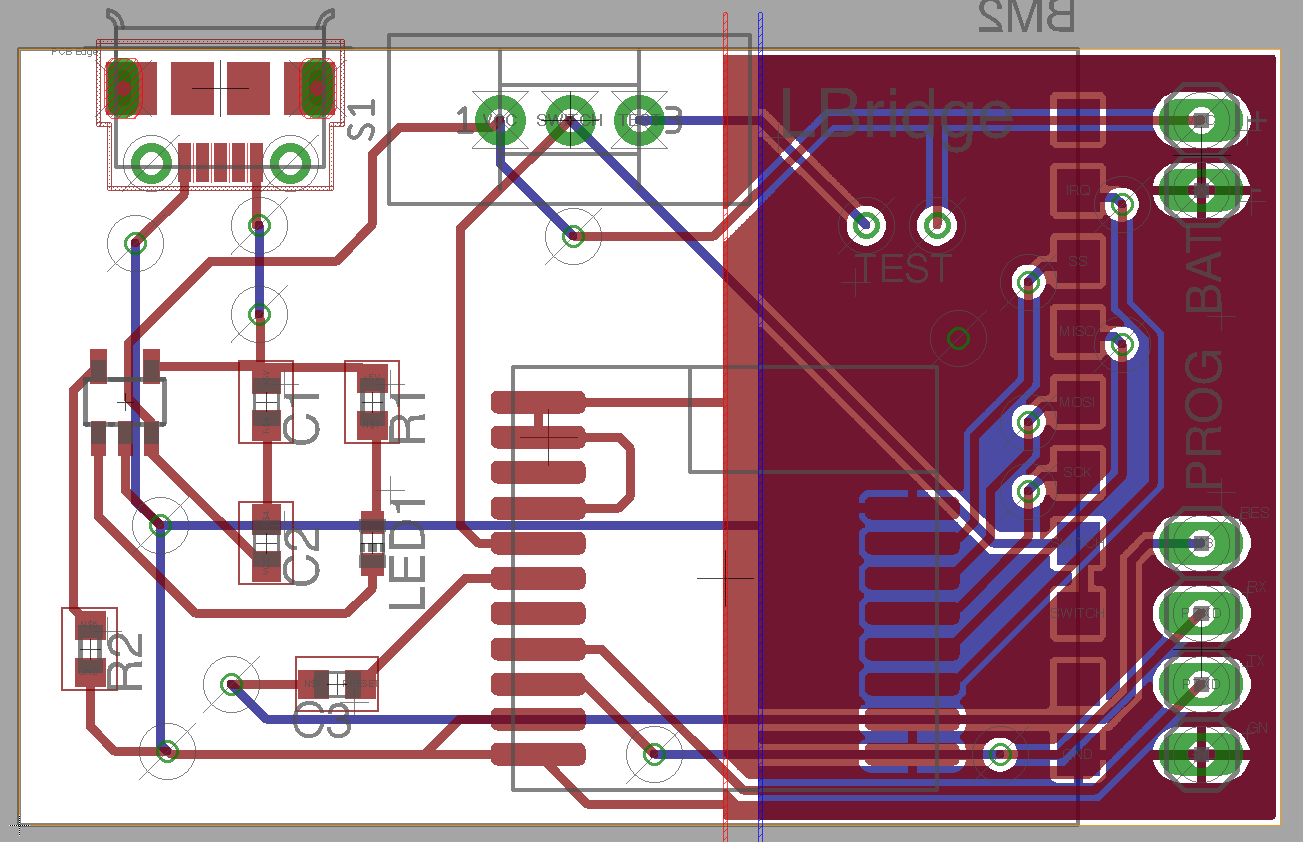
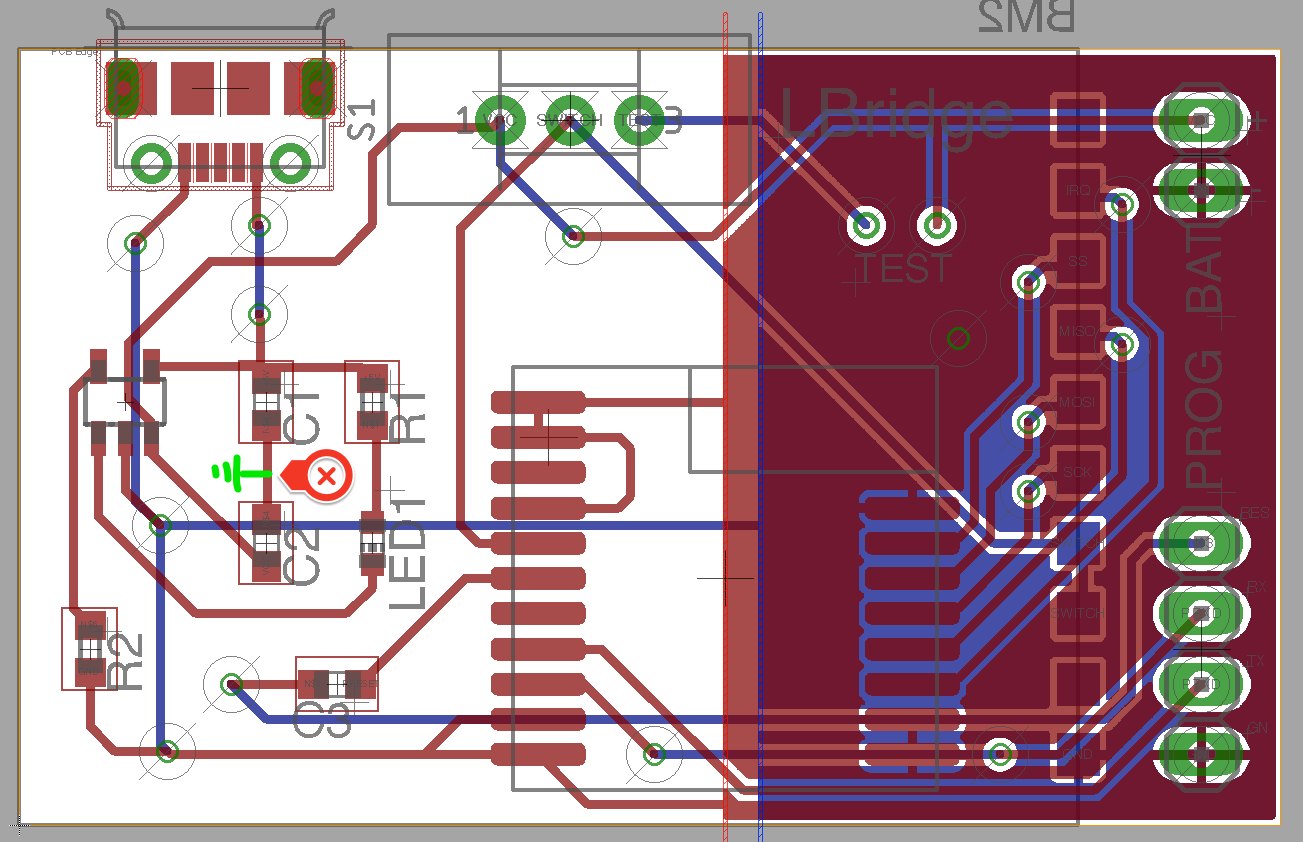
bug report

Changed region(s): [[0.1535, 0.5249, 0.2763, 0.6176]]

diff --git a/README.md b/README.md
@@ -4,9 +4,11 @@ This is a PCB design for keencave's [LBridge](https://github.com/keencave/LBridg
 
 Made with free version of EAGLE for BM019 and RFDuino.
 
-The switch has the states On (1-2) and Off/Testing (2-3). The batterie can be charged in any state, in the off-state the NFC and RFDuino modules are disconnected. But there are two testing vias that can be shorted or connected to an ampere meter.
+The switch has the states On (1-2) and Off/Testing (2-3). The battery can be charged in any state, in the off-state the NFC and RFDuino modules are disconnected. But there are two testing vias that can be shorted or connected to an ampere meter.
 
 ![PCB screenshot](https://raw.githubusercontent.com/chaosbiber/LBriduino/master/pcb.png)
+
+There's **a bug** in the current design: Between C1 and C2 a line to ground is missing.
 
 ## Parts
 (product links from 2017/12/10)
